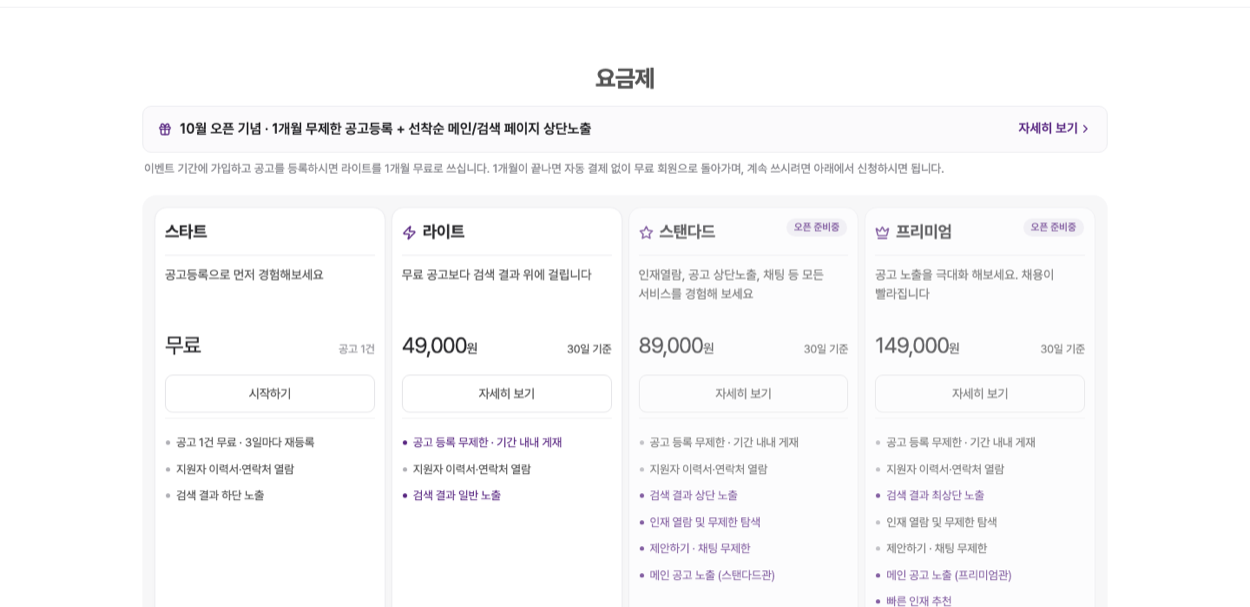
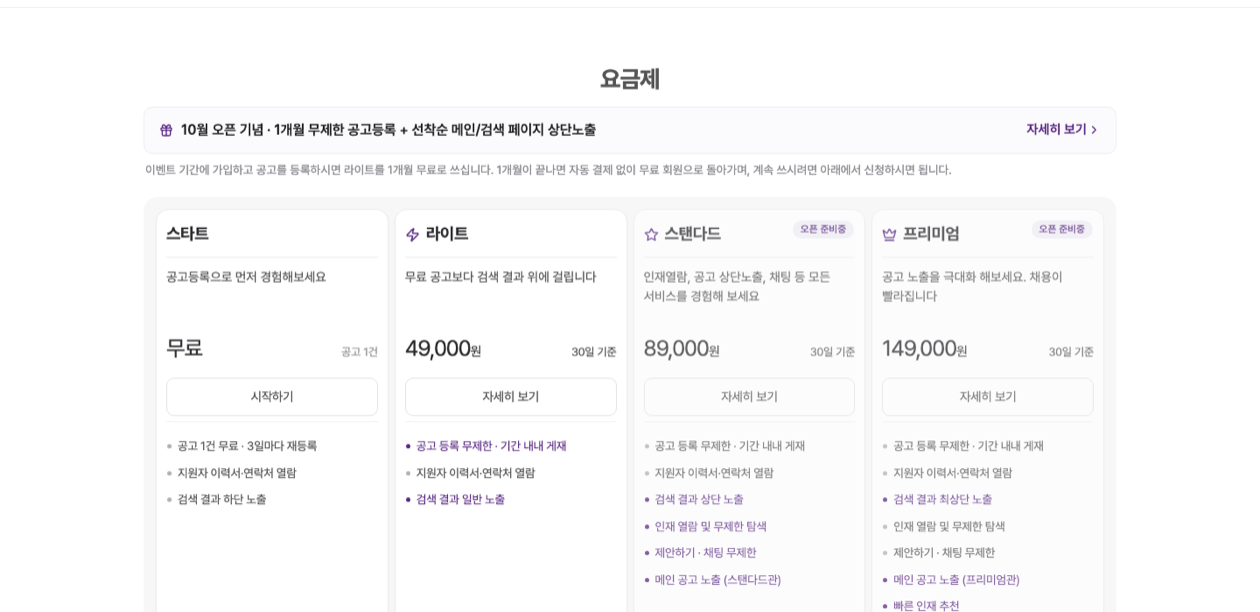
요금을 시장가에 맞춰 내린다
30일 기준
  라이트    49,000 → 19,000
  스탠다드  89,000 → 69,000
  프리미엄 149,000 → 99,000

라이트가 주는 것은 「사흘마다 재등록하지 않아도 되는 것」과 「무료 공고보다
검색에서 조금 위」 둘뿐이다. 29,000원짜리 내용이 아니다 — 같은 값이면
뷰티잡매니저가 메인 노출까지 준다. 미용 전문 최저가(뷰티잡 22,000)보다
아래로 내려 하루 633원으로 잡았다.

스탠다드 69,000 은 셀렉미 추천과 같은 값인데 메인 공고 노출이 더 붙고,
프리미엄 99,000 은 헤어인잡 차선과 같은 값이면서 셀렉미 프리미엄보다 싸다.

기간별 값도 같은 곡선으로 다시 잡았다 — 길게 살수록 하루치가 싸진다.
검증 스크립트가 값을 lib/companyPlans 에서 읽도록 고쳐, 앞으로 가격을
바꿔도 검증이 먼저 깨지지 않는다.

diff --git a/자료/요금표.html b/자료/요금표.html
@@ -17921,4 +17921,4 @@ select option { background-color: #fff; color: var(--color-text-strong); }
 }
 
 
-</style><link rel="preload" as="script" fetchpriority="low" href="http://localhost:3000/_next/static/chunks/webpack.js?v=1789620079266"><link rel="manifest" href="http://localhost:3000/manifest.json"><meta name="theme-color" content="#582681"><meta name="color-scheme" content="light"><title>뷰티워크 | 뷰티 커리어의 시작과 성장</title><meta name="description" content="전문가 채용부터 업계 트렌드까지, 뷰티 산업 종사자를 위한 채용 플랫폼 뷰티워크"><meta name="keywords" content="뷰티 채용,화장품 채용,뷰티 커리어,BeautyWork"><meta name="robots" content="noindex, nofollow"><meta name="mobile-web-app-capable" content="yes"><meta name="apple-mobile-web-app-capable" content="yes"><meta name="apple-mobile-web-app-title" content="뷰티워크"><meta name="apple-mobile-web-app-status-bar-style" content="default"><link rel="icon" href="http://localhost:3000/icons/icon-192.png"><link rel="apple-touch-icon" href="http://localhost:3000/icons/icon-180.png"></head><body class="font-sans"><div class="cs-page"><header class="cs-header"><div class="cs-header-in"><a class="cs-logo" href="http://localhost:3000/"><img alt="뷰티워크" fetchpriority="high" width="124" height="32" decoding="async" data-nimg="1" style="color:transparent" srcset="/_next/image?url=%2Fimages%2Flogo.png&amp;w=128&amp;q=75 1x, /_next/image?url=%2Fimages%2Flogo.png&amp;w=256&amp;q=75 2x" src="http://localhost:3000/_next/image?url=%2Fimages%2Flogo.png&amp;w=256&amp;q=75"></a><nav class="cs-nav"><a class="cs-nav-evt" href="http://localhost:3000/company">오픈이벤트</a><a href="http://localhost:3000/company/plans">채용공고 상품</a><a href="http://localhost:3000/company/plans/ads">배너광고 상품</a><a href="http://localhost:3000/support">고객센터</a></nav><div class="cs-header-btns"><a class="cs-btn-ghost" href="http://localhost:3000/company/login">로그인</a><a class="cs-btn-fill" href="http://localhost:3000/company/signup">회원가입</a></div></div></header><section class="cs-wrap"><h2 class="cs-h2">요금제</h2><a class="co-evtband" href="http://localhost:3000/company"><svg xmlns="http://www.w3.org/2000/svg" width="16" height="16" viewBox="0 0 24 24" fill="none" stroke="currentColor" stroke-width="2" stroke-linecap="round" stroke-linejoin="round" class="lucide lucide-gift"><rect x="3" y="8" width="18" height="4" rx="1"></rect><path d="M12 8v13"></path><path d="M19 12v7a2 2 0 0 1-2 2H7a2 2 0 0 1-2-2v-7"></path><path d="M7.5 8a2.5 2.5 0 0 1 0-5A4.8 8 0 0 1 12 8a4.8 8 0 0 1 4.5-5 2.5 2.5 0 0 1 0 5"></path></svg><span class="co-evtband-t">10월 오픈 기념 · 1개월 무제한 공고등록 + 선착순 메인/검색 페이지 상단노출</span><span class="co-evtband-go">자세히 보기<svg xmlns="http://www.w3.org/2000/svg" width="15" height="15" viewBox="0 0 24 24" fill="none" stroke="currentColor" stroke-width="2" stroke-linecap="round" stroke-linejoin="round" class="lucide lucide-chevron-right"><path d="m9 18 6-6-6-6"></path></svg></span></a><p class="co-evtband-n">이벤트 기간에 가입하고 공고를 등록하시면 라이트를 1개월 무료로 쓰십니다. 1개월이 끝나면 자동 결제 없이 무료 회원으로 돌아가며, 계속 쓰시려면 아래에서 신청하시면 됩니다.</p><div class="cs-plans"><div class="cs-plan"><p class="cs-plan-nm">스타트</p><p class="cs-plan-ln">공고등록으로 먼저 경험해보세요</p><p class="cs-plan-pr">무료<span class="cs-plan-du free">공고 <!-- -->1<!-- -->건</span></p><a class="cs-plan-btn free" href="http://localhost:3000/company/signup">시작하기</a><ul class="cs-plan-feat"><li>공고 1건 무료 · 3일마다 재등록</li><li>지원자 이력서·연락처 열람</li><li>검색 결과 하단 노출</li></ul></div><div class="cs-plan"><p class="cs-plan-nm"><svg xmlns="http://www.w3.org/2000/svg" width="17" height="17" viewBox="0 0 24 24" fill="none" stroke="currentColor" stroke-width="2.2" stroke-linecap="round" stroke-linejoin="round" class="lucide lucide-zap"><path d="M4 14a1 1 0 0 1-.78-1.63l9.9-10.2a.5.5 0 0 1 .86.46l-1.92 6.02A1 1 0 0 0 13 10h7a1 1 0 0 1 .78 1.63l-9.9 10.2a.5.5 0 0 1-.86-.46l1.92-6.02A1 1 0 0 0 11 14z"></path></svg>라이트</p><p class="cs-plan-ln">무료 공고보다 검색 결과 위에 걸립니다</p><p class="cs-plan-pr">49,000<i>원</i><span class="cs-plan-du">30<!-- -->일 기준</span></p><a class="cs-plan-btn" href="http://localhost:3000/company/plans/light">자세히 보기</a><ul class="cs-plan-feat"><li class="new">공고 등록 무제한 · 기간 내내 게재</li><li>지원자 이력서·연락처 열람</li><li class="new">검색 결과 일반 노출</li></ul></div><div class="cs-plan soon"><span class="cs-plan-soon">오픈 준비중</span><p class="cs-plan-nm"><svg xmlns="http://www.w3.org/2000/svg" width="17" height="17" viewBox="0 0 24 24" fill="none" stroke="currentColor" stroke-width="2.2" stroke-linecap="round" stroke-linejoin="round" class="lucide lucide-star"><polygon points="12 2 15.09 8.26 22 9.27 17 14.14 18.18 21.02 12 17.77 5.82 21.02 7 14.14 2 9.27 8.91 8.26 12 2"></polygon></svg>스탠다드</p><p class="cs-plan-ln">인재열람, 공고 상단노출, 채팅 등 모든 서비스를 경험해 보세요</p><p class="cs-plan-pr">89,000<i>원</i><span class="cs-plan-du">30<!-- -->일 기준</span></p><a class="cs-plan-btn" href="http://localhost:3000/company/plans/standard">자세히 보기</a><ul class="cs-plan-feat"><li>공고 등록 무제한 · 기간 내내 게재</li><li>지원자 이력서·연락처 열람</li><li class="new">검색 결과 상단 노출</li><li class="new">인재 열람 및 무제한 탐색</li><li class="new">제안하기 · 채팅 무제한</li><li class="new">메인 공고 노출 (스탠다드관)</li></ul></div><div class="cs-plan soon"><span class="cs-plan-soon">오픈 준비중</span><p class="cs-plan-nm"><svg xmlns="http://www.w3.org/2000/svg" width="17" height="17" viewBox="0 0 24 24" fill="none" stroke="currentColor" stroke-width="2.2" stroke-linecap="round" stroke-linejoin="round" class="lucide lucide-crown"><path d="M11.562 3.266a.5.5 0 0 1 .876 0L15.39 8.87a1 1 0 0 0 1.516.294L21.183 5.5a.5.5 0 0 1 .798.519l-2.834 10.246a1 1 0 0 1-.956.734H5.81a1 1 0 0 1-.957-.734L2.02 6.02a.5.5 0 0 1 .798-.519l4.276 3.664a1 1 0 0 0 1.516-.294z"></path><path d="M5 21h14"></path></svg>프리미엄</p><p class="cs-plan-ln">공고 노출을 극대화 해보세요. 채용이 빨라집니다</p><p class="cs-plan-pr">149,000<i>원</i><span class="cs-plan-du">30<!-- -->일 기준</span></p><a class="cs-plan-btn" href="http://localhost:3000/company/plans/premium">자세히 보기</a><ul class="cs-plan-feat"><li>공고 등록 무제한 · 기간 내내 게재</li><li>지원자 이력서·연락처 열람</li><li class="new">검색 결과 최상단 노출</li><li>인재 열람 및 무제한 탐색</li><li>제안하기 · 채팅 무제한</li><li class="new">메인 공고 노출 (프리미엄관)</li><li class="new">빠른 인재 추천</li></ul></div></div><p class="cs-vat right">부가세 포함</p></section><section class="cs-wrap"><h2 class="cs-h2">자주 묻는 질문</h2><ul class="cs-faq"><li><button type="button" aria-expanded="false"><i>Q.</i><span>결제는 어떻게 하나요?</span><svg xmlns="http://www.w3.org/2000/svg" width="16" height="16" viewBox="0 0 24 24" fill="none" stroke="currentColor" stroke-width="2" stroke-linecap="round" stroke-linejoin="round" class="lucide lucide-plus"><path d="M5 12h14"></path><path d="M12 5v14"></path></svg></button></li><li><button type="button" aria-expanded="false"><i>Q.</i><span>이용권은 언제부터 시작되나요?</span><svg xmlns="http://www.w3.org/2000/svg" width="16" height="16" viewBox="0 0 24 24" fill="none" stroke="currentColor" stroke-width="2" stroke-linecap="round" stroke-linejoin="round" class="lucide lucide-plus"><path d="M5 12h14"></path><path d="M12 5v14"></path></svg></button></li><li><button type="button" aria-expanded="false"><i>Q.</i><span>기간이 끝나면 어떻게 되나요?</span><svg xmlns="http://www.w3.org/2000/svg" width="16" height="16" viewBox="0 0 24 24" fill="none" stroke="currentColor" stroke-width="2" stroke-linecap="round" stroke-linejoin="round" class="lucide lucide-plus"><path d="M5 12h14"></path><path d="M12 5v14"></path></svg></button></li><li><button type="button" aria-expanded="false"><i>Q.</i><span>무료로도 공고를 올릴 수 있나요?</span><svg xmlns="http://www.w3.org/2000/svg" width="16" height="16" viewBox="0 0 24 24" fill="none" stroke="currentColor" stroke-width="2" stroke-linecap="round" stroke-linejoin="round" class="lucide lucide-plus"><path d="M5 12h14"></path><path d="M12 5v14"></path></svg></button></li><li><button type="button" aria-expanded="false"><i>Q.</i><span>메인 공고 노출은 어떻게 되나요?</span><svg xmlns="http://www.w3.org/2000/svg" width="16" height="16" viewBox="0 0 24 24" fill="none" stroke="currentColor" stroke-width="2" stroke-linecap="round" stroke-linejoin="round" class="lucide lucide-plus"><path d="M5 12h14"></path><path d="M12 5v14"></path></svg></button></li><li><button type="button" aria-expanded="false"><i>Q.</i><span>사람을 빨리 뽑으면 남은 기간은 어떻게 되나요?</span><svg xmlns="http://www.w3.org/2000/svg" width="16" height="16" viewBox="0 0 24 24" fill="none" stroke="currentColor" stroke-width="2" stroke-linecap="round" stroke-linejoin="round" class="lucide lucide-plus"><path d="M5 12h14"></path><path d="M12 5v14"></path></svg></button></li><li><button type="button" aria-expanded="false"><i>Q.</i><span>세금계산서를 받을 수 있나요?</span><svg xmlns="http://www.w3.org/2000/svg" width="16" height="16" viewBox="0 0 24 24" fill="none" stroke="currentColor" stroke-width="2" stroke-linecap="round" stroke-linejoin="round" class="lucide lucide-plus"><path d="M5 12h14"></path><path d="M12 5v14"></path></svg></button></li><li><button type="button" aria-expanded="false"><i>Q.</i><span>환불이 되나요?</span><svg xmlns="http://www.w3.org/2000/svg" width="16" height="16" viewBox="0 0 24 24" fill="none" stroke="currentColor" stroke-width="2" stroke-linecap="round" stroke-linejoin="round" class="lucide lucide-plus"><path d="M5 12h14"></path><path d="M12 5v14"></path></svg></button></li></ul><div class="cs-center" style="margin-top:30px"><a class="cs-btn-line lg" href="http://localhost:3000/support">고객센터 문의하기 <svg xmlns="http://www.w3.org/2000/svg" width="15" height="15" viewBox="0 0 24 24" fill="none" stroke="currentColor" stroke-width="2" stroke-linecap="round" stroke-linejoin="round" class="lucide lucide-arrow-right"><path d="M5 12h14"></path><path d="m12 5 7 7-7 7"></path></svg></a></div></section></div><next-route-announcer style="position: absolute;"></next-route-announcer></body></html>
+</style><link rel="preload" as="script" fetchpriority="low" href="http://localhost:3000/_next/static/chunks/webpack.js?v=1789631262669"><link rel="manifest" href="http://localhost:3000/manifest.json"><meta name="theme-color" content="#582681"><meta name="color-scheme" content="light"><title>뷰티워크 | 뷰티 커리어의 시작과 성장</title><meta name="description" content="전문가 채용부터 업계 트렌드까지, 뷰티 산업 종사자를 위한 채용 플랫폼 뷰티워크"><meta name="keywords" content="뷰티 채용,화장품 채용,뷰티 커리어,BeautyWork"><meta name="robots" content="noindex, nofollow"><meta name="mobile-web-app-capable" content="yes"><meta name="apple-mobile-web-app-capable" content="yes"><meta name="apple-mobile-web-app-title" content="뷰티워크"><meta name="apple-mobile-web-app-status-bar-style" content="default"><link rel="icon" href="http://localhost:3000/icons/icon-192.png"><link rel="apple-touch-icon" href="http://localhost:3000/icons/icon-180.png"></head><body class="font-sans"><div class="cs-page"><header class="cs-header"><div class="cs-header-in"><a class="cs-logo" href="http://localhost:3000/"><img alt="뷰티워크" fetchpriority="high" width="124" height="32" decoding="async" data-nimg="1" style="color:transparent" srcset="/_next/image?url=%2Fimages%2Flogo.png&amp;w=128&amp;q=75 1x, /_next/image?url=%2Fimages%2Flogo.png&amp;w=256&amp;q=75 2x" src="http://localhost:3000/_next/image?url=%2Fimages%2Flogo.png&amp;w=256&amp;q=75"></a><nav class="cs-nav"><a class="cs-nav-evt" href="http://localhost:3000/company">오픈이벤트</a><a href="http://localhost:3000/company/plans">채용공고 상품</a><a href="http://localhost:3000/company/plans/ads">배너광고 상품</a><a href="http://localhost:3000/support">고객센터</a></nav><div class="cs-header-btns"><a class="cs-btn-ghost" href="http://localhost:3000/company/login">로그인</a><a class="cs-btn-fill" href="http://localhost:3000/company/signup">회원가입</a></div></div></header><section class="cs-wrap"><h2 class="cs-h2">요금제</h2><a class="co-evtband" href="http://localhost:3000/company"><svg xmlns="http://www.w3.org/2000/svg" width="16" height="16" viewBox="0 0 24 24" fill="none" stroke="currentColor" stroke-width="2" stroke-linecap="round" stroke-linejoin="round" class="lucide lucide-gift"><rect x="3" y="8" width="18" height="4" rx="1"></rect><path d="M12 8v13"></path><path d="M19 12v7a2 2 0 0 1-2 2H7a2 2 0 0 1-2-2v-7"></path><path d="M7.5 8a2.5 2.5 0 0 1 0-5A4.8 8 0 0 1 12 8a4.8 8 0 0 1 4.5-5 2.5 2.5 0 0 1 0 5"></path></svg><span class="co-evtband-t">10월 오픈 기념 · 1개월 무제한 공고등록 + 선착순 메인/검색 페이지 상단노출</span><span class="co-evtband-go">자세히 보기<svg xmlns="http://www.w3.org/2000/svg" width="15" height="15" viewBox="0 0 24 24" fill="none" stroke="currentColor" stroke-width="2" stroke-linecap="round" stroke-linejoin="round" class="lucide lucide-chevron-right"><path d="m9 18 6-6-6-6"></path></svg></span></a><p class="co-evtband-n">이벤트 기간에 가입하고 공고를 등록하시면 라이트를 1개월 무료로 쓰십니다. 1개월이 끝나면 자동 결제 없이 무료 회원으로 돌아가며, 계속 쓰시려면 아래에서 신청하시면 됩니다.</p><div class="cs-plans"><div class="cs-plan"><p class="cs-plan-nm">스타트</p><p class="cs-plan-ln">공고등록으로 먼저 경험해보세요</p><p class="cs-plan-pr">무료<span class="cs-plan-du free">공고 <!-- -->1<!-- -->건</span></p><a class="cs-plan-btn free" href="http://localhost:3000/company/signup">시작하기</a><ul class="cs-plan-feat"><li>공고 1건 무료 · 3일마다 재등록</li><li>지원자 이력서·연락처 열람</li><li>검색 결과 하단 노출</li></ul></div><div class="cs-plan"><p class="cs-plan-nm"><svg xmlns="http://www.w3.org/2000/svg" width="17" height="17" viewBox="0 0 24 24" fill="none" stroke="currentColor" stroke-width="2.2" stroke-linecap="round" stroke-linejoin="round" class="lucide lucide-zap"><path d="M4 14a1 1 0 0 1-.78-1.63l9.9-10.2a.5.5 0 0 1 .86.46l-1.92 6.02A1 1 0 0 0 13 10h7a1 1 0 0 1 .78 1.63l-9.9 10.2a.5.5 0 0 1-.86-.46l1.92-6.02A1 1 0 0 0 11 14z"></path></svg>라이트</p><p class="cs-plan-ln">무료 공고보다 검색 결과 위에 걸립니다</p><p class="cs-plan-pr">49,000<i>원</i><span class="cs-plan-du">30<!-- -->일 기준</span></p><a class="cs-plan-btn" href="http://localhost:3000/company/plans/light">자세히 보기</a><ul class="cs-plan-feat"><li class="new">공고 등록 무제한 · 기간 내내 게재</li><li>지원자 이력서·연락처 열람</li><li class="new">검색 결과 일반 노출</li></ul></div><div class="cs-plan soon"><span class="cs-plan-soon">오픈 준비중</span><p class="cs-plan-nm"><svg xmlns="http://www.w3.org/2000/svg" width="17" height="17" viewBox="0 0 24 24" fill="none" stroke="currentColor" stroke-width="2.2" stroke-linecap="round" stroke-linejoin="round" class="lucide lucide-star"><polygon points="12 2 15.09 8.26 22 9.27 17 14.14 18.18 21.02 12 17.77 5.82 21.02 7 14.14 2 9.27 8.91 8.26 12 2"></polygon></svg>스탠다드</p><p class="cs-plan-ln">인재열람, 공고 상단노출, 채팅 등 모든 서비스를 경험해 보세요</p><p class="cs-plan-pr">89,000<i>원</i><span class="cs-plan-du">30<!-- -->일 기준</span></p><a class="cs-plan-btn" href="http://localhost:3000/company/plans/standard">자세히 보기</a><ul class="cs-plan-feat"><li>공고 등록 무제한 · 기간 내내 게재</li><li>지원자 이력서·연락처 열람</li><li class="new">검색 결과 상단 노출</li><li class="new">인재 열람 및 무제한 탐색</li><li class="new">제안하기 · 채팅 무제한</li><li class="new">메인 공고 노출 (스탠다드관)</li></ul></div><div class="cs-plan soon"><span class="cs-plan-soon">오픈 준비중</span><p class="cs-plan-nm"><svg xmlns="http://www.w3.org/2000/svg" width="17" height="17" viewBox="0 0 24 24" fill="none" stroke="currentColor" stroke-width="2.2" stroke-linecap="round" stroke-linejoin="round" class="lucide lucide-crown"><path d="M11.562 3.266a.5.5 0 0 1 .876 0L15.39 8.87a1 1 0 0 0 1.516.294L21.183 5.5a.5.5 0 0 1 .798.519l-2.834 10.246a1 1 0 0 1-.956.734H5.81a1 1 0 0 1-.957-.734L2.02 6.02a.5.5 0 0 1 .798-.519l4.276 3.664a1 1 0 0 0 1.516-.294z"></path><path d="M5 21h14"></path></svg>프리미엄</p><p class="cs-plan-ln">공고 노출을 극대화 해보세요. 채용이 빨라집니다</p><p class="cs-plan-pr">149,000<i>원</i><span class="cs-plan-du">30<!-- -->일 기준</span></p><a class="cs-plan-btn" href="http://localhost:3000/company/plans/premium">자세히 보기</a><ul class="cs-plan-feat"><li>공고 등록 무제한 · 기간 내내 게재</li><li>지원자 이력서·연락처 열람</li><li class="new">검색 결과 최상단 노출</li><li>인재 열람 및 무제한 탐색</li><li>제안하기 · 채팅 무제한</li><li class="new">메인 공고 노출 (프리미엄관)</li><li class="new">빠른 인재 추천</li></ul></div></div><p class="cs-vat right">부가세 포함</p></section><section class="cs-wrap"><h2 class="cs-h2">자주 묻는 질문</h2><ul class="cs-faq"><li><button type="button" aria-expanded="false"><i>Q.</i><span>결제는 어떻게 하나요?</span><svg xmlns="http://www.w3.org/2000/svg" width="16" height="16" viewBox="0 0 24 24" fill="none" stroke="currentColor" stroke-width="2" stroke-linecap="round" stroke-linejoin="round" class="lucide lucide-plus"><path d="M5 12h14"></path><path d="M12 5v14"></path></svg></button></li><li><button type="button" aria-expanded="false"><i>Q.</i><span>이용권은 언제부터 시작되나요?</span><svg xmlns="http://www.w3.org/2000/svg" width="16" height="16" viewBox="0 0 24 24" fill="none" stroke="currentColor" stroke-width="2" stroke-linecap="round" stroke-linejoin="round" class="lucide lucide-plus"><path d="M5 12h14"></path><path d="M12 5v14"></path></svg></button></li><li><button type="button" aria-expanded="false"><i>Q.</i><span>기간이 끝나면 어떻게 되나요?</span><svg xmlns="http://www.w3.org/2000/svg" width="16" height="16" viewBox="0 0 24 24" fill="none" stroke="currentColor" stroke-width="2" stroke-linecap="round" stroke-linejoin="round" class="lucide lucide-plus"><path d="M5 12h14"></path><path d="M12 5v14"></path></svg></button></li><li><button type="button" aria-expanded="false"><i>Q.</i><span>무료로도 공고를 올릴 수 있나요?</span><svg xmlns="http://www.w3.org/2000/svg" width="16" height="16" viewBox="0 0 24 24" fill="none" stroke="currentColor" stroke-width="2" stroke-linecap="round" stroke-linejoin="round" class="lucide lucide-plus"><path d="M5 12h14"></path><path d="M12 5v14"></path></svg></button></li><li><button type="button" aria-expanded="false"><i>Q.</i><span>메인 공고 노출은 어떻게 되나요?</span><svg xmlns="http://www.w3.org/2000/svg" width="16" height="16" viewBox="0 0 24 24" fill="none" stroke="currentColor" stroke-width="2" stroke-linecap="round" stroke-linejoin="round" class="lucide lucide-plus"><path d="M5 12h14"></path><path d="M12 5v14"></path></svg></button></li><li><button type="button" aria-expanded="false"><i>Q.</i><span>사람을 빨리 뽑으면 남은 기간은 어떻게 되나요?</span><svg xmlns="http://www.w3.org/2000/svg" width="16" height="16" viewBox="0 0 24 24" fill="none" stroke="currentColor" stroke-width="2" stroke-linecap="round" stroke-linejoin="round" class="lucide lucide-plus"><path d="M5 12h14"></path><path d="M12 5v14"></path></svg></button></li><li><button type="button" aria-expanded="false"><i>Q.</i><span>세금계산서를 받을 수 있나요?</span><svg xmlns="http://www.w3.org/2000/svg" width="16" height="16" viewBox="0 0 24 24" fill="none" stroke="currentColor" stroke-width="2" stroke-linecap="round" stroke-linejoin="round" class="lucide lucide-plus"><path d="M5 12h14"></path><path d="M12 5v14"></path></svg></button></li><li><button type="button" aria-expanded="false"><i>Q.</i><span>환불이 되나요?</span><svg xmlns="http://www.w3.org/2000/svg" width="16" height="16" viewBox="0 0 24 24" fill="none" stroke="currentColor" stroke-width="2" stroke-linecap="round" stroke-linejoin="round" class="lucide lucide-plus"><path d="M5 12h14"></path><path d="M12 5v14"></path></svg></button></li></ul><div class="cs-center" style="margin-top:30px"><a class="cs-btn-line lg" href="http://localhost:3000/support">고객센터 문의하기 <svg xmlns="http://www.w3.org/2000/svg" width="15" height="15" viewBox="0 0 24 24" fill="none" stroke="currentColor" stroke-width="2" stroke-linecap="round" stroke-linejoin="round" class="lucide lucide-arrow-right"><path d="M5 12h14"></path><path d="m12 5 7 7-7 7"></path></svg></a></div></section></div><next-route-announcer style="position: absolute;"></next-route-announcer></body></html>

diff --git a/app/api/jobs/route.ts b/app/api/jobs/route.ts
@@ -137,24 +137,28 @@ export async function GET(req: NextRequest) {
     (Object.keys(플랜) as PlanId[]).map((p) => `WHEN '${p}' THEN ${플랜[p].노출순위} `).join('') +
     `ELSE 0 END DESC`
   /**
-   * 같은 구간 안에서 줄 세우는 법. 최신순이 아니다.
+   * 같은 구간(상품) 안에서 줄 세우는 법 — **기업이 마지막으로 들어온 날**이다.
    *
-   * 마감일이 있는 공고가 먼저다 — 마감이 가까울수록 급한 자리이고, 지원자도
-   * 늦게 보면 못 넣는 것부터 봐야 한다. 상시채용은 내일 봐도 그대로라 뒤다.
+   * 헤어인잡이 쓰는 방식이다. 이용안내에 「채용정보 게시판의 노출순서는 접속일
+   * 순서입니다. 로그인을 하지 않을 경우 구인광고가 후순위로 밀려서 노출이
+   * 되지 않습니다」라고 대놓고 적어 두었고, 유료 상품마다 「접속일 오늘 날짜로
+   * 업데이트」를 혜택으로 판다.
    *
-   * 최신순으로 두면 상시채용 공고를 며칠에 한 번씩 다시 올리는 곳이 늘 위에
-   * 서고, 마감이 사흘 남은 공고가 그 밑으로 밀린다.
+   * 이 규칙이 하는 일은 **살아 있는 공고를 위로 올리는 것**이다. 채용이 끝났는데
+   * 안 내린 공고는 사장님이 안 들어오니 저절로 가라앉는다. 목록을 손으로
+   * 치우지 않아도 최근 것으로 채워진다.
    *
-   * 상시끼리는 날마다 차례를 섞는다. 등록순으로 고정하면 작년에 올린 곳이
-   * 1년 내내 그 자리에 서고 어제 올린 곳은 영영 뒤다 — 같은 값(무료 또는
-   * 같은 상품)을 낸 자리끼리는 돌아가며 서는 것이 맞다.
+   * 로그인한 적 없는 곳(우리가 모아 온 공고)은 접속일이 없어 등록일로 갈음한다.
+   * 그러지 않으면 그것들이 전부 맨 뒤에 무더기로 몰린다.
    *
-   * 다만 매 요청마다 새로 섞으면 안 된다. 2쪽을 넘길 때 다시 섞이면 1쪽에
-   * 봤던 공고가 또 나오고 어떤 공고는 영영 안 보인다. 그래서 날짜를 씨앗으로
-   * 준다 — 하루 안에서는 같은 차례고, 날이 바뀌면 바뀐다.
+   * 마감일이 빠른 공고를 먼저 세우던 규칙을 이걸로 갈았다. 마감이 급한 자리를
+   * 앞에 두는 것도 말이 되지만, 그러면 **공고를 걸어 두고 아무것도 안 하는 곳이
+   * 계속 위에 선다.** 자리를 파는 이상 움직이는 쪽이 위에 서야 한다.
    */
   const 같은구간 = (a = '') =>
-    `${a}deadline ASC NULLS LAST, md5(${a}id::text || CURRENT_DATE::text)`
+    `COALESCE((SELECT c_.last_login_at FROM companies c_ WHERE c_.id = ${a}company_id), ${a}created_at) DESC NULLS LAST, ` +
+    `md5(${a}id::text || CURRENT_DATE::text)`
+
   const listQuery = active ? `
     SELECT j.id, j.title, j.job_type, j.company_id, j.company_name, j.brand_name, j.logo_url, j.cover_images, j.signboard_url, j.company_type,
            j.location, j.work_type, j.employment_type, j.salary_min, j.salary_max, j.salary_type,

diff --git a/lib/companyPlans.ts b/lib/companyPlans.ts
@@ -30,7 +30,7 @@ export const 플랜: Record<PlanId, 플랜정의> = {
   LIGHT: {
     name: "라이트",
     한줄: "무료 공고보다 검색 결과 위에 걸립니다",
-    가격: { 7: 19000, 15: 29000, 30: 49000, 45: 69000, 60: 89000 },
+    가격: { 7: 8000, 15: 13000, 30: 19000, 45: 26000, 60: 33000 },
     인재열람: false,
     // 무료(스타트)가 0, 라이트가 1이다. 여기 둘이 같으면 라이트가 파는 것이
     // 「공고 무제한」뿐인데, 회원기업의 98%가 어차피 한 건만 올린다.
@@ -42,7 +42,7 @@ export const 플랜: Record<PlanId, 플랜정의> = {
   STANDARD: {
     name: "스탠다드",
     한줄: "인재열람, 공고 상단노출, 채팅 등 모든 서비스를 경험해 보세요",
-    가격: { 7: 35000, 15: 55000, 30: 89000, 45: 129000, 60: 165000 },
+    가격: { 7: 27000, 15: 45000, 30: 69000, 45: 95000, 60: 119000 },
     인재열람: true,
     노출순위: 2,
     메인: "STANDARD",
@@ -52,7 +52,7 @@ export const 플랜: Record<PlanId, 플랜정의> = {
   PREMIUM: {
     name: "프리미엄",
     한줄: "공고 노출을 극대화 해보세요. 채용이 빨라집니다",
-    가격: { 7: 59000, 15: 95000, 30: 149000, 45: 219000, 60: 279000 },
+    가격: { 7: 39000, 15: 65000, 30: 99000, 45: 139000, 60: 169000 },
     인재열람: true,
     노출순위: 3,
     메인: "PREMIUM",
